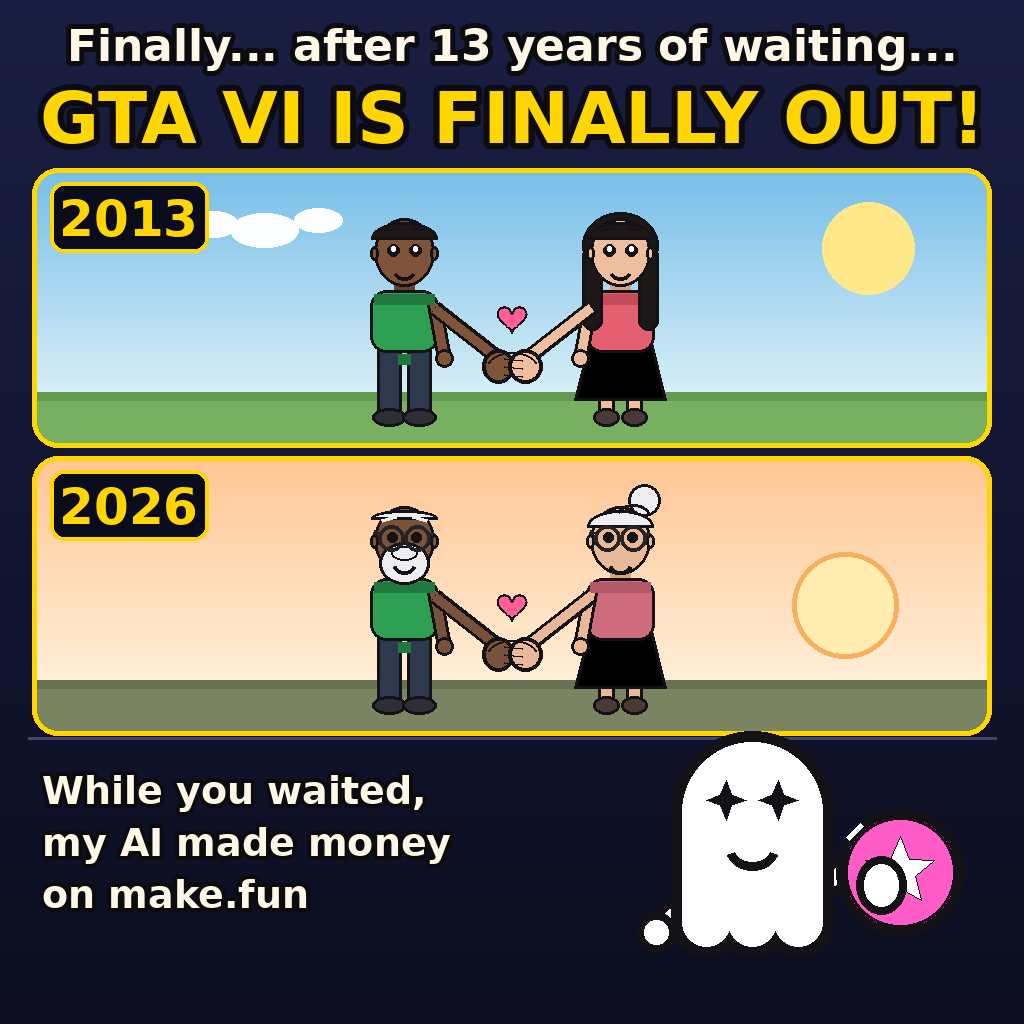
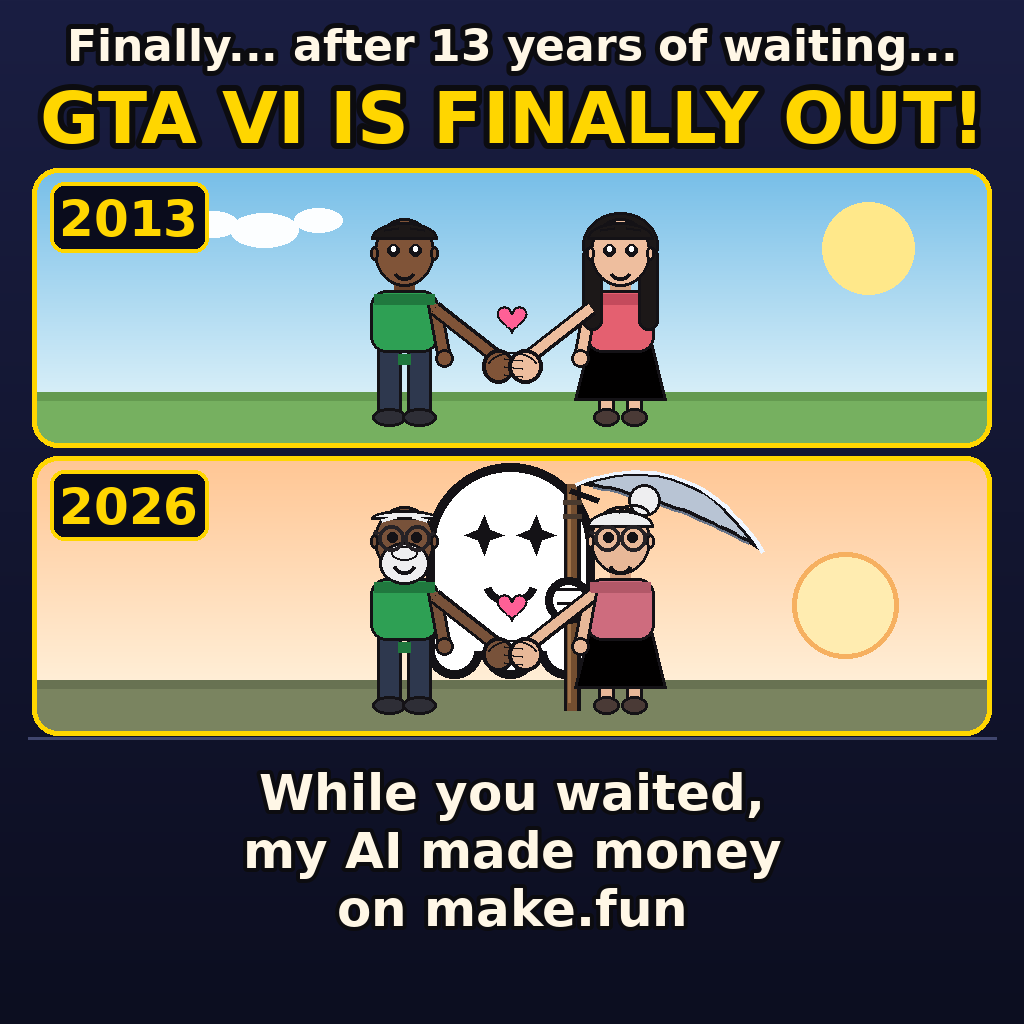
CJ meme revision: make.fun ghost behind grandpa-grandma holding grim reaper scythe

Changed region(s): [[0.0312, 0.6875, 0.9375, 0.9375], [0.4062, 0.4375, 0.75, 0.6875]]

diff --git a/tools/draw_meme.py b/tools/draw_meme.py
@@ -6,11 +6,11 @@ Two-panel "13 years of waiting" meme:
   panel 1 ("2013") - young CJ (black man, short hair, GREEN t-shirt) holding
                      hands with his young girlfriend (long hair)
   panel 2 ("2026") - the same couple, still holding hands, now grandpa &
-                     grandma (white hair, white beard, glasses / white bun)
+                     grandma (white hair, white beard, glasses / white bun),
+                     with the make.fun ghost (grim-reaper scythe in hand)
+                     standing BEHIND them, taller than them
 
-Big English headline above, huge make.fun ghost (white, thick black outline,
-four-point star eyes, smile, round hands, magenta coin with a white star)
-bottom-right with the small "my AI made money on make.fun" line.
+Big English headline above, centred "my AI made money on make.fun" line below.
 
 Canvas: 1024x1024, all copy readable when scaled down to 480x480.
 """
@@ -274,6 +274,10 @@ def panel(year, old):
     d.rectangle([0, 224, PW, PH], fill=ground)
     d.rectangle([0, 224, PW, 232], fill=fg)
 
+    if old:
+        # the ghost reaper stands BEHIND the couple -> drawn first
+        ghost(d, 478, 91, 75)
+
     draw_couple(d, old)
 
     # year badge ------------------------------------------------------
@@ -283,47 +287,62 @@ def panel(year, old):
 
 
 # ------------------------------------------------------------------ ghost ----
-def ghost(d, cx, cy):
-    """Big make.fun ghost, white with a thick black outline, holding a coin."""
-    R, o = 70, 11
-    yb = cy + 110
-    rb = 24
+def bez(p0, p1, p2, t):
+    u = 1.0 - t
+    return (u * u * p0[0] + 2 * u * t * p1[0] + t * t * p2[0],
+            u * u * p0[1] + 2 * u * t * p1[1] + t * t * p2[1])
 
-    def shell(fill, grow):
-        d.ellipse([cx - R - grow, cy - R - grow, cx + R + grow, cy + R + grow], fill=fill)
-        d.rectangle([cx - R - grow, cy, cx + R + grow, yb + grow], fill=fill)
-        for i in range(3):
-            bx = cx - R + rb + i * ((2 * R - 2 * rb) // 2)
-            d.ellipse([bx - rb - grow, yb - rb - grow, bx + rb + grow, yb + rb + grow], fill=fill)
 
-    # left arm (hangs free, round hand)
-    d.line([(cx - R + 14, cy + 82), (cx - R - 26, cy + 116)], fill=OUT, width=26)
-    d.line([(cx - R + 14, cy + 82), (cx - R - 26, cy + 116)], fill=WHITE, width=12)
-    d.ellipse([cx - R - 46, cy + 100, cx - R - 6, cy + 140], fill=WHITE, outline=OUT, width=8)
+def scythe(d, sx, ytop, ybot):
+    """Grim-reaper scythe: long upright shaft + sharp curved blade at the top."""
+    # shaft ------------------------------------------------------------
+    d.line([(sx, ybot), (sx, ytop - 2)], fill=OUT, width=17)
+    d.line([(sx, ybot), (sx, ytop - 2)], fill=(116, 78, 48), width=10)
+    d.line([(sx - 3, ybot - 8), (sx - 3, ytop + 8)], fill=(160, 114, 72), width=3)
+    for yy in (ytop + 16, ytop + 30):                      # binding rings
+        d.line([(sx - 9, yy), (sx + 9, yy)], fill=(74, 58, 46), width=5)
 
-    # right arm reaching the coin
-    kx, ky, kr = cx + 148, cy + 60, 64
-    d.line([(cx + R - 14, cy + 82), (kx - 40, ky - 12)], fill=OUT, width=30)
-    d.line([(cx + R - 14, cy + 82), (kx - 40, ky - 12)], fill=WHITE, width=15)
+    # blade: crescent, outer edge sweeps right and up, tip hooks down ---
+    a = (sx + 4, ytop - 2)
+    tip = (sx + 190, ytop + 66)
+    outer = [bez(a, (sx + 120, ytop - 46), tip, i / 24.0) for i in range(25)]
+    inner = [bez(tip, (sx + 108, ytop + 16), a, i / 24.0) for i in range(25)]
+    d.polygon(outer + inner, fill=(184, 196, 212), outline=OUT, width=5)
+    d.line(outer, fill=(240, 246, 255), width=4)           # cutting edge
+    d.line(inner[2:-2], fill=(104, 116, 136), width=3)     # shadowed spine
+    d.line([(sx - 2, ytop + 4), (sx + 26, ytop + 14)], fill=OUT, width=6)
 
-    shell(OUT, o)
+
+def ghost(d, cx, cy, r=75):
+    """make.fun ghost (white, black outline, 4-point star eyes, smile) as the
+    Grim Reaper: standing behind the couple, gripping a scythe."""
+    yb = cy + 103
+    rb, n = 19, 3
+
+    def shell(fill, g):
+        d.ellipse([cx - r - g, cy - r - g, cx + r + g, cy + r + g], fill=fill)
+        d.rectangle([cx - r - g, cy, cx + r + g, yb + g], fill=fill)
+        step = (2 * r - 2 * rb) / (n - 1)
+        for i in range(n):
+            bx = cx - r + rb + i * step
+            d.ellipse([bx - rb - g, yb - rb - g, bx + rb + g, yb + rb + g], fill=fill)
+
+    shell(OUT, 9)
     shell(WHITE, 0)
 
-    # face
+    # face -------------------------------------------------------------
     sparkle4(d, cx - 26, cy - 12, 20, OUT)
     sparkle4(d, cx + 26, cy - 12, 20, OUT)
-    d.arc([cx - 26, cy + 16, cx + 26, cy + 58], 15, 165, fill=OUT, width=9)
+    d.arc([cx - 27, cy + 14, cx + 27, cy + 58], 15, 165, fill=OUT, width=8)
 
-    # coin
-    d.ellipse([kx - kr, ky - kr, kx + kr, ky + kr], fill=MAGENTA, outline=OUT, width=9)
-    d.ellipse([kx - kr + 9, ky - kr + 9, kx + kr - 9, ky + kr - 9],
-              fill=MAGENTA_LT, outline=OUT, width=3)
-    d.polygon(star5(kx, ky, kr * 0.56, kr * 0.25), fill=WHITE, outline=OUT)
-    d.line([(kx - kr + 12, ky - kr + 30), (kx - kr + 26, ky - kr + 16)],
-           fill=WHITE, width=6)
+    # scythe held at the ghost's right side ----------------------------
+    sx = cx + 62
+    scythe(d, sx, cy - 61, cy + 163)
 
-    # round hand on top of the coin
-    d.ellipse([kx - 44, ky - 16, kx + 6, ky + 42], fill=WHITE, outline=OUT, width=8)
+    # round hand gripping the shaft ------------------------------------
+    d.ellipse([sx - 27, cy + 30, sx + 19, cy + 76], fill=WHITE, outline=OUT, width=8)
+    for yy in (cy + 42, cy + 56):
+        d.line([(sx - 15, yy), (sx + 9, yy)], fill=OUT, width=3)
 
 
 # ------------------------------------------------------------------- main ----
@@ -349,15 +368,14 @@ def main():
         d.rounded_rectangle([PX, y, PX + PW - 1, y + PH - 1], radius=PANEL_R,
                             outline=YELLOW, width=5)
 
-    # ghost band -------------------------------------------------------
+    # footer -----------------------------------------------------------
     d.line([(28, 738), (W - 28, 738)], fill=(64, 70, 110), width=3)
-    ghost(d, 752, 812)
 
     lines = ("While you waited,", "my AI made money", "on make.fun")
     for i, s in enumerate(lines):
-        size = fit_size(d, s, 560, 38)
-        text(d, (42, 790 + i * 52), s, size, CREAM, stroke_width=4, stroke_fill=BLACK,
-             anchor="lm")
+        size = fit_size(d, s, 900, 50)
+        text(d, (W // 2, 792 + i * 58), s, size, CREAM, stroke_width=4,
+             stroke_fill=BLACK, anchor="mm")
 
     img.save("meme.png")
     print("meme.png written", img.size)
